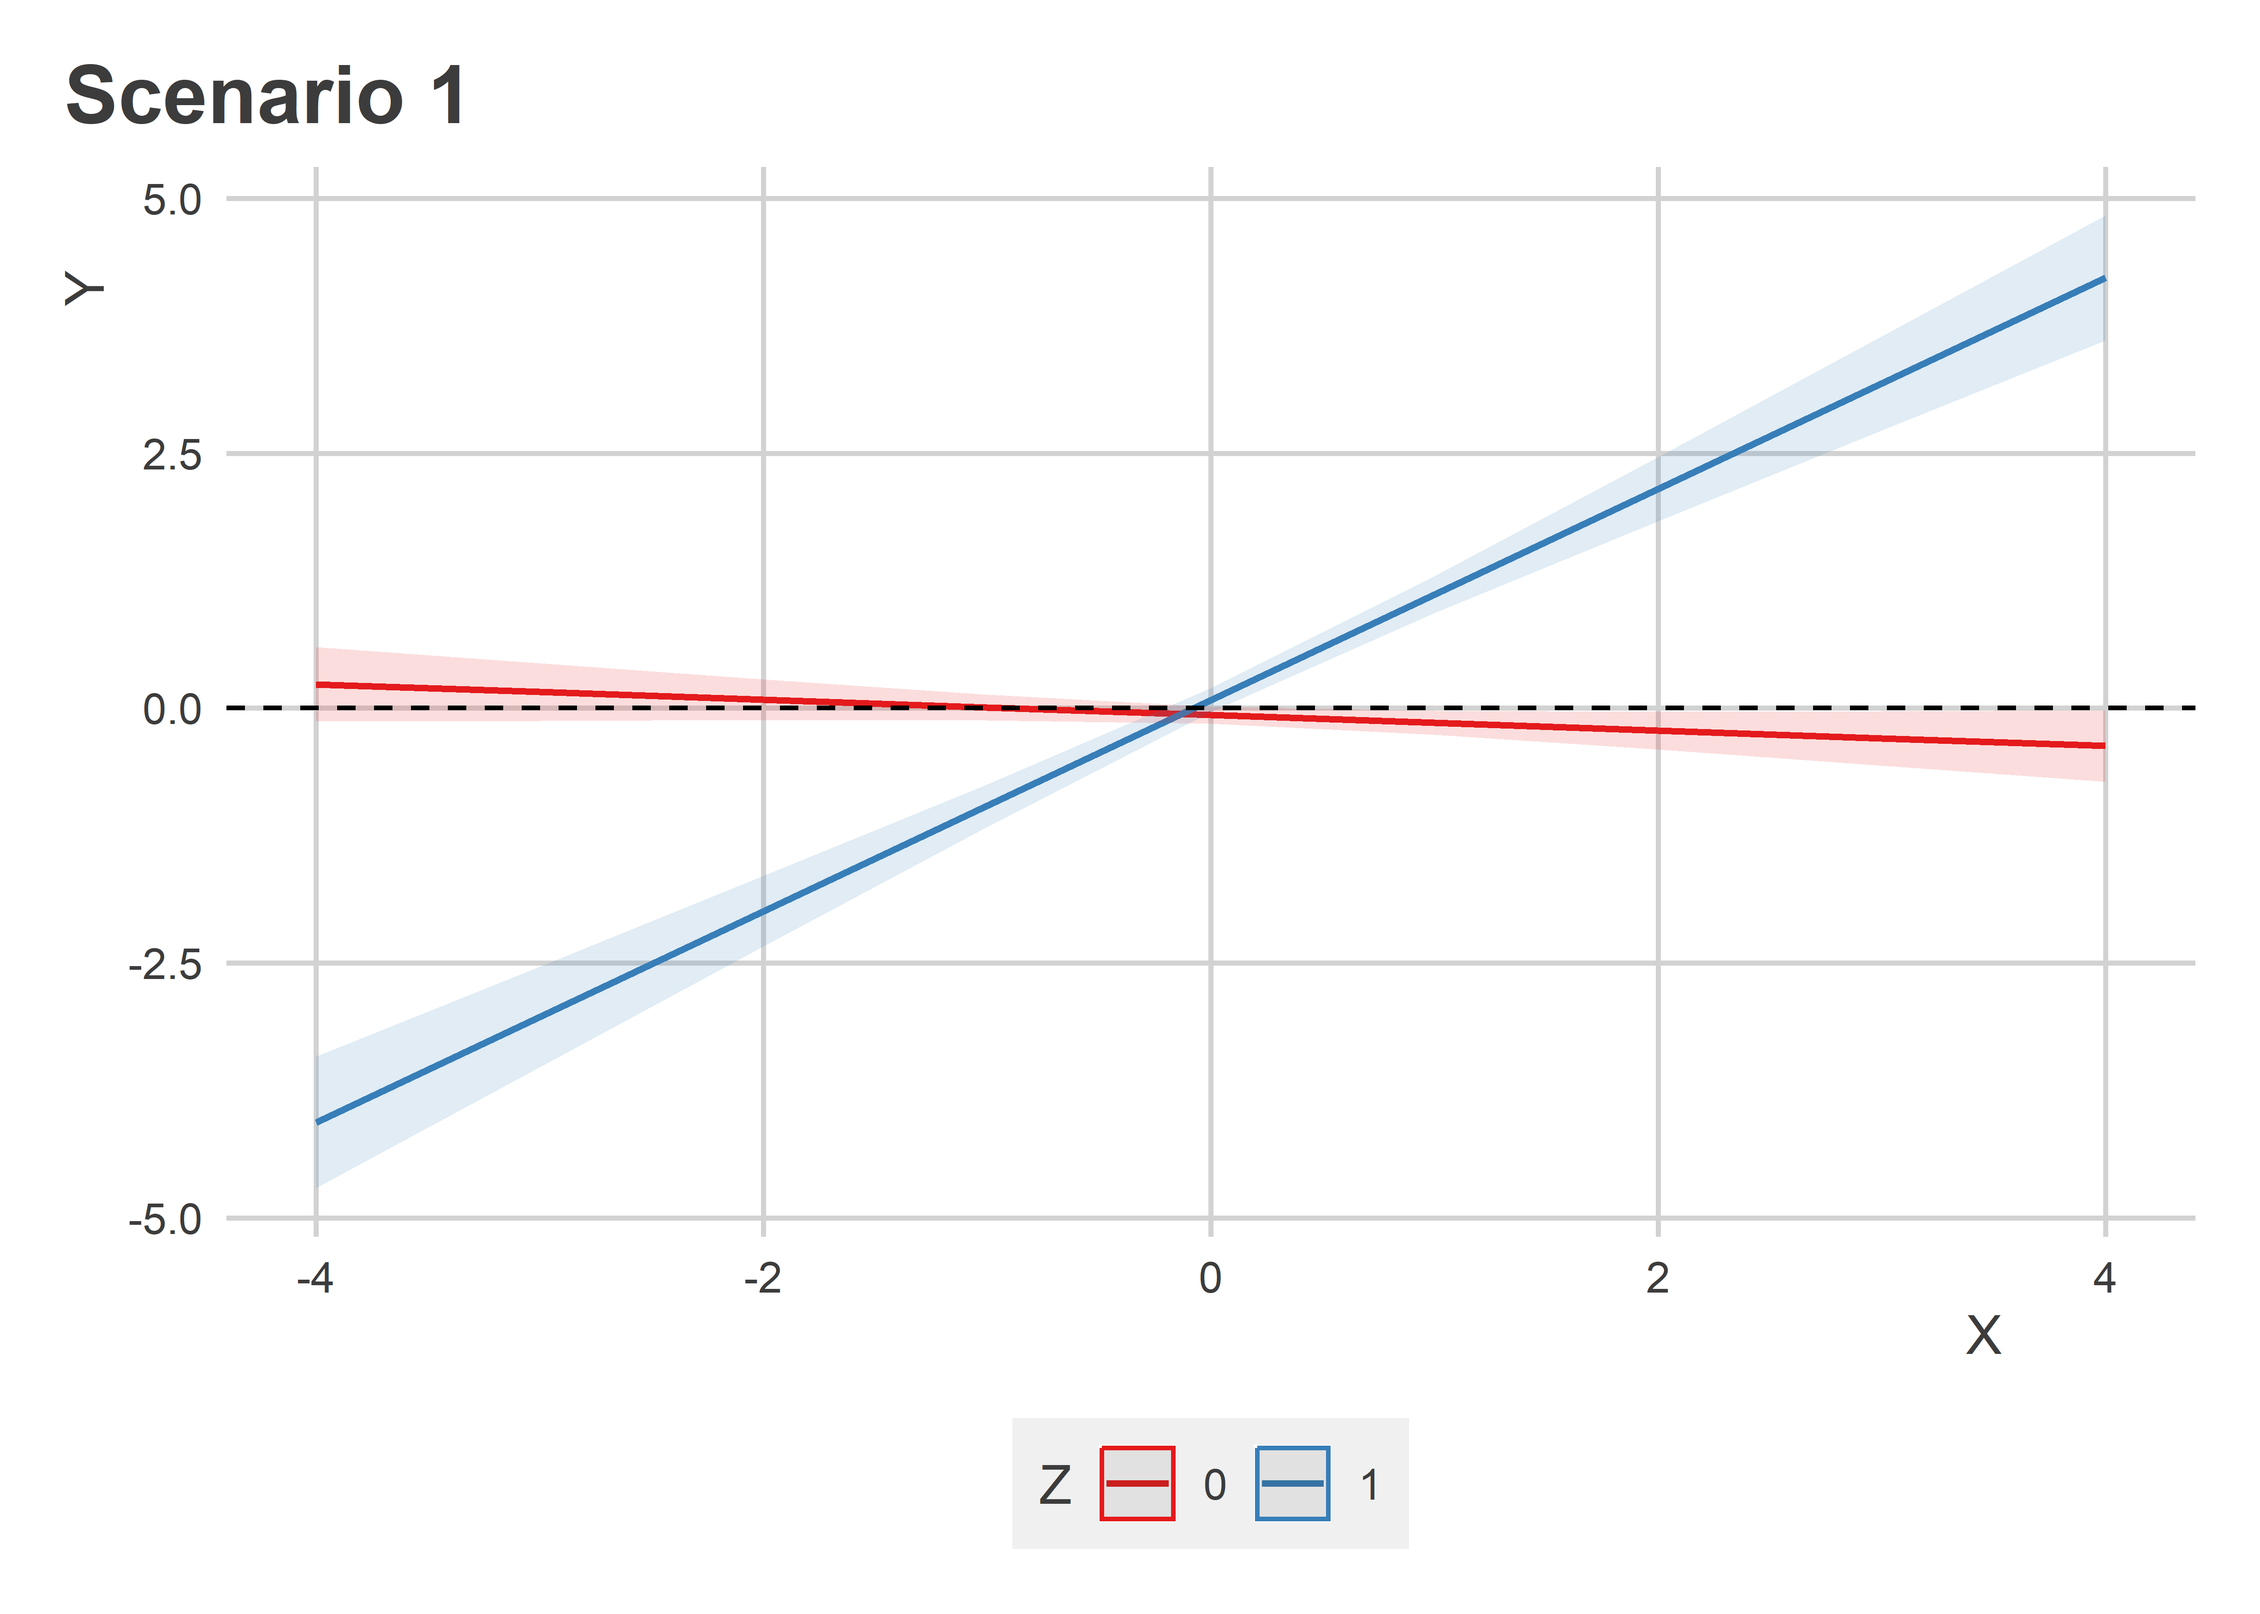
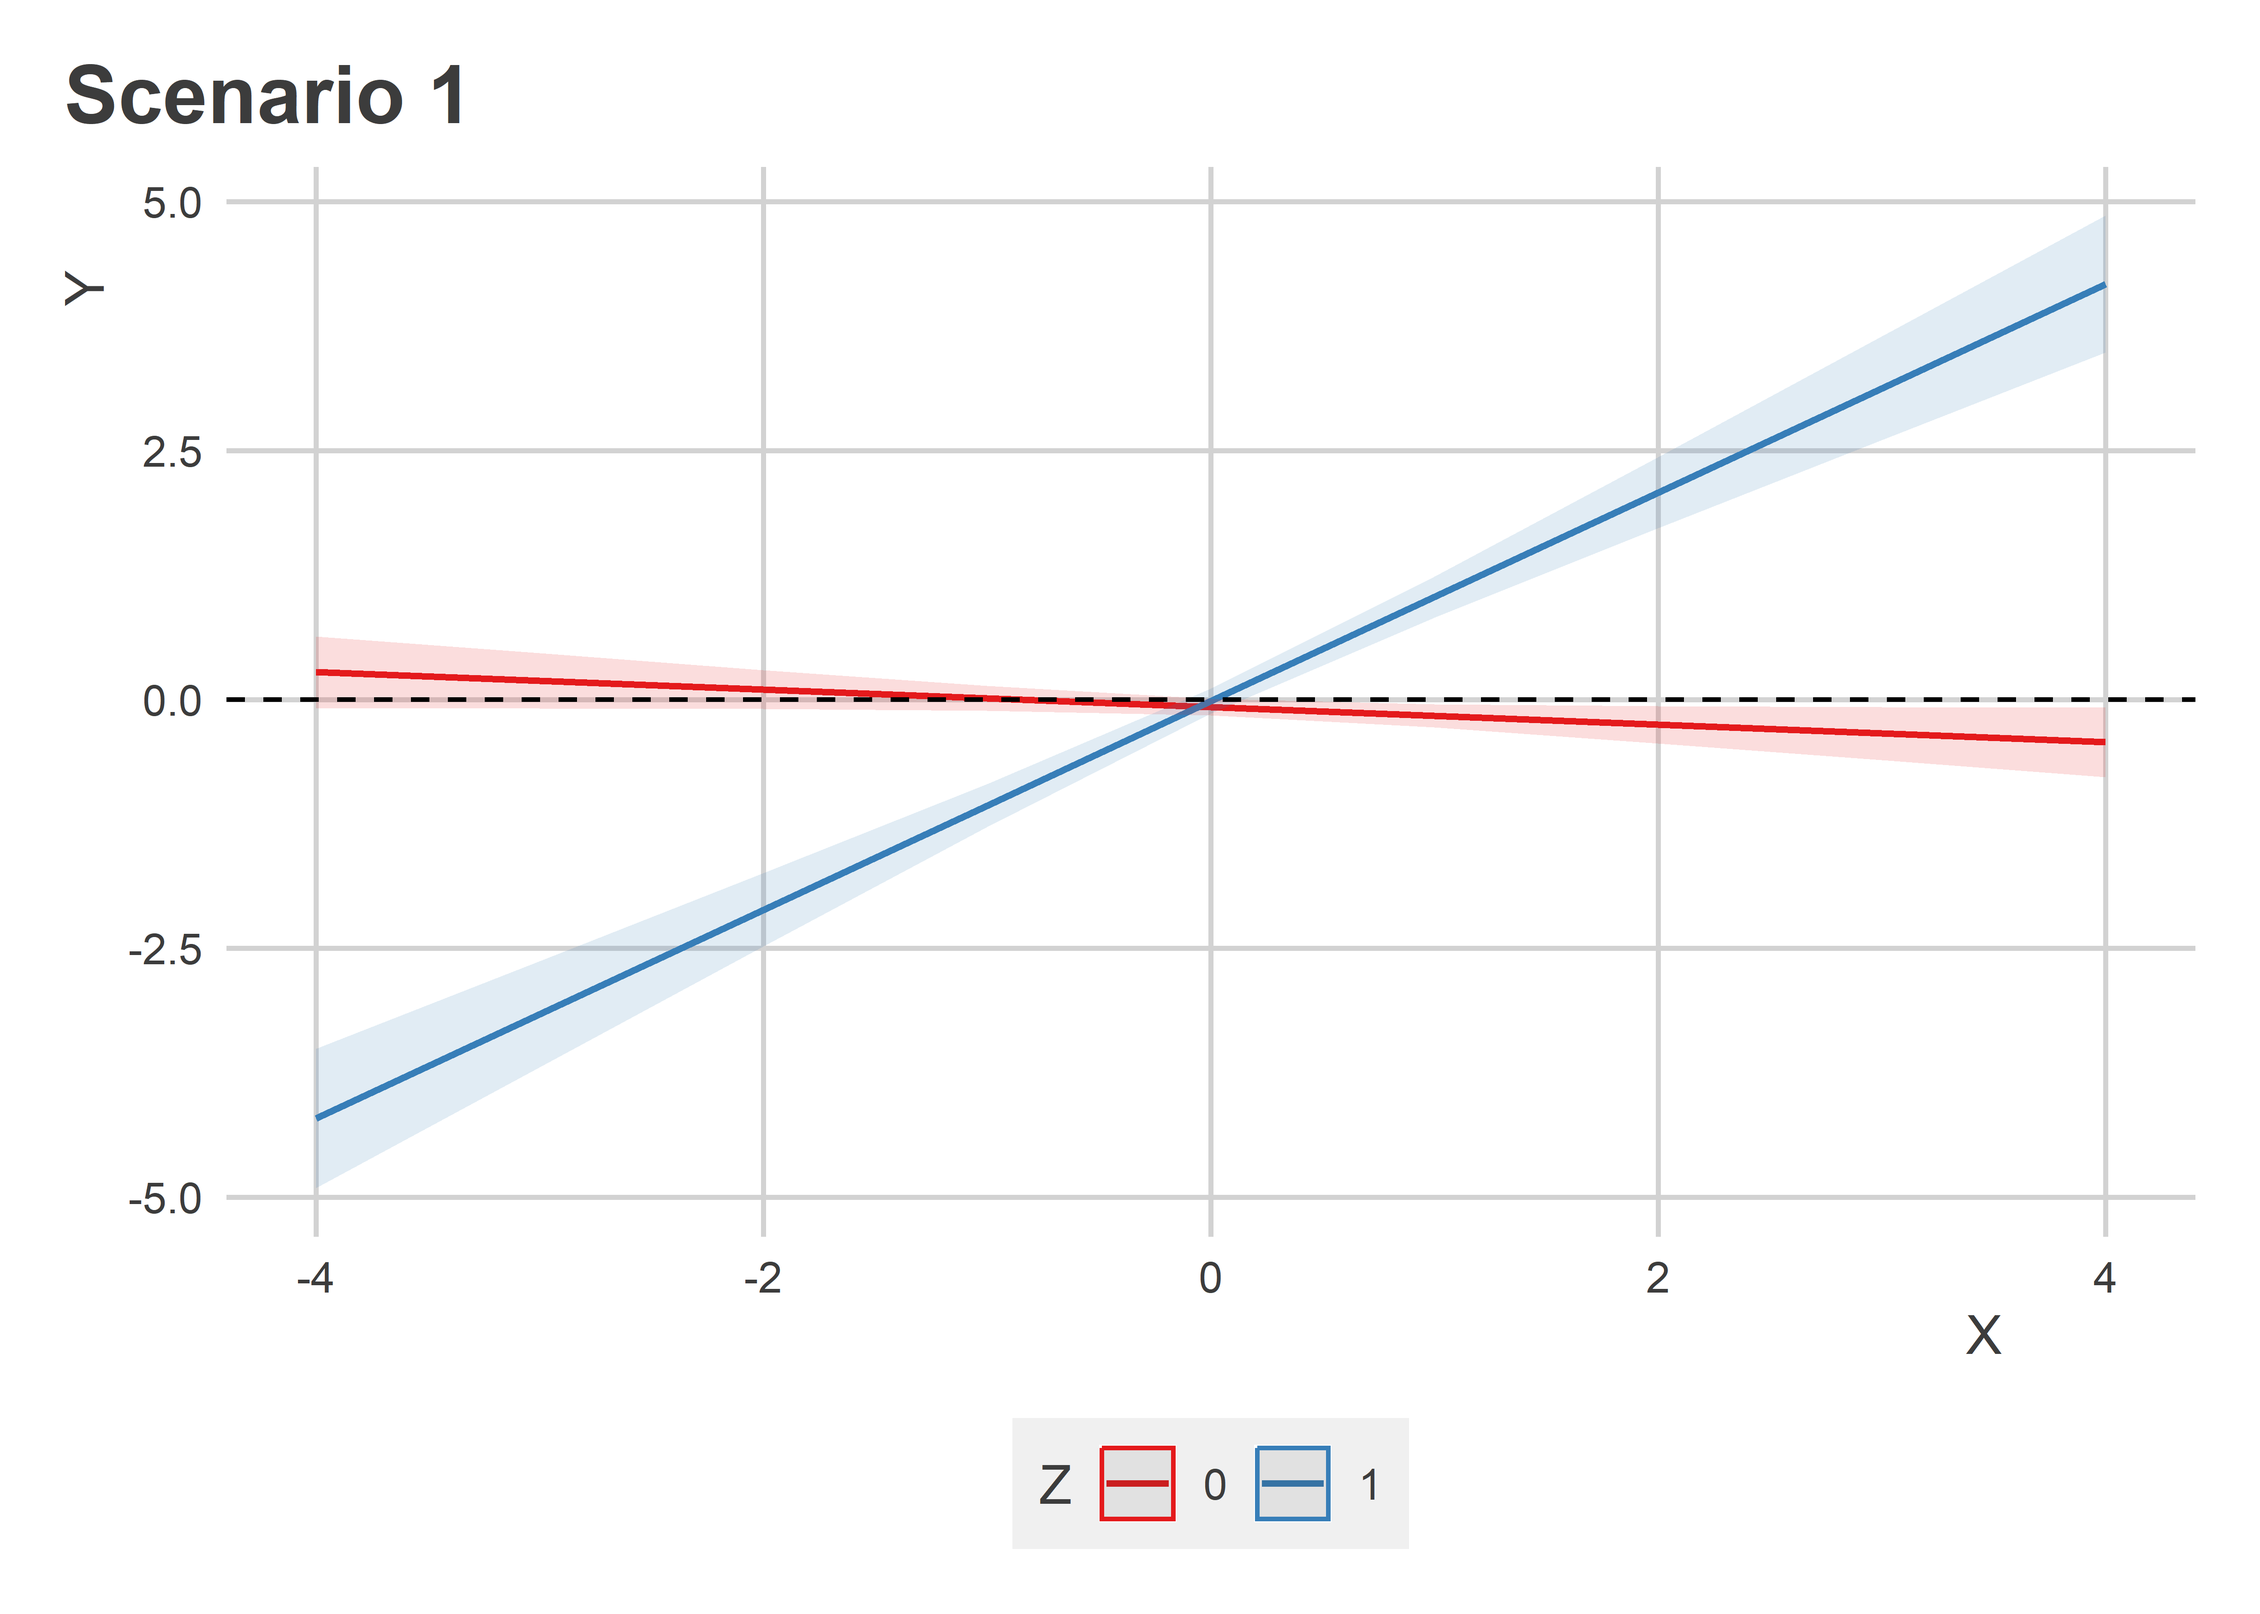
try this

diff --git a/_posts/2023-05-08-interactions.md b/_posts/2023-05-08-interactions.md
@@ -122,19 +122,19 @@ screenreg(list(fit1, fit2), include.ci = F)
     ## =====================================
     ##              Model 1      Model 2    
     ## -------------------------------------
-    ## (Intercept)    -0.07         0.07    
+    ## (Intercept)    -0.08         0.04    
     ##                (0.04)       (0.06)   
-    ## X              -0.08         1.09 ***
-    ##                (0.04)       (0.09)   
-    ## Z               0.15        -0.46    
-    ##                (0.07)       (0.28)   
-    ## X:Z             1.11 ***    -0.61    
-    ##                (0.09)       (0.46)   
+    ## X              -0.09 *       0.85 ***
+    ##                (0.04)       (0.08)   
+    ## Z               0.06         0.04    
+    ##                (0.08)       (0.26)   
+    ## X:Z             1.14 ***     0.41    
+    ##                (0.10)       (0.42)   
     ## -------------------------------------
-    ## R^2             0.29         0.03    
-    ## Adj. R^2        0.29         0.03    
+    ## R^2             0.27         0.06    
+    ## Adj. R^2        0.27         0.06    
     ## Num. obs.    1000         1000       
-    ## RMSE            1.20         4.62    
+    ## RMSE            1.21         4.14    
     ## =====================================
     ## *** p < 0.001; ** p < 0.01; * p < 0.05
 
